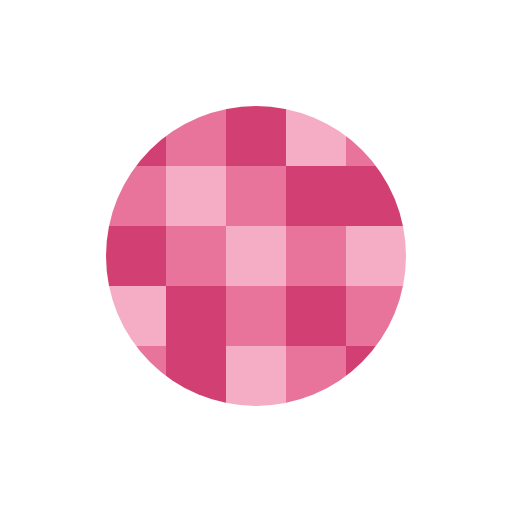
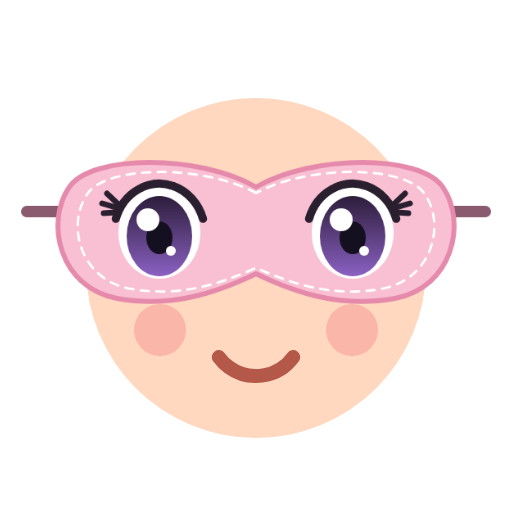
写真かくしのアイコンを、アイマスクをかけた顔に変える
Claude-Session: https://claude.ai/code/session_01VgR3gukLSnEfzCmL2sjUTv

diff --git a/kakushi/index.html b/kakushi/index.html
@@ -1,4 +1,4 @@
-<!doctype html><html lang="ja"><head><meta charset=utf8><meta name=viewport content="width=device-width,initial-scale=1,viewport-fit=cover"><style>:root{color-scheme:light;padding-top:env(safe-area-inset-top,0px);padding-bottom:env(safe-area-inset-bottom,0px)}body{margin:0}img{max-width:100%}</style><meta name="apple-mobile-web-app-title" content="写真かくし"><meta name="apple-mobile-web-app-capable" content="yes"><meta name="theme-color" content="#d23f72"><link rel="apple-touch-icon" href="apple-touch-icon.png"><link rel="icon" type="image/png" sizes="192x192" href="icon-192.png"><link rel="manifest" href="manifest.webmanifest"></head><body>
+<!doctype html><html lang="ja"><head><meta charset=utf8><meta name=viewport content="width=device-width,initial-scale=1,viewport-fit=cover"><style>:root{color-scheme:light;padding-top:env(safe-area-inset-top,0px);padding-bottom:env(safe-area-inset-bottom,0px)}body{margin:0}img{max-width:100%}</style><meta name="apple-mobile-web-app-title" content="写真かくし"><meta name="apple-mobile-web-app-capable" content="yes"><meta name="theme-color" content="#d23f72"><link rel="apple-touch-icon" href="apple-touch-icon.png?v=2"><link rel="icon" type="image/png" sizes="192x192" href="icon-192.png?v=2"><link rel="manifest" href="manifest.webmanifest?v=2"></head><body>
 <title>写真かくし</title>
 <meta name="claude:viewport-fit-sides" content="cover">
 <link rel="stylesheet" href="https://fonts.googleapis.com/css2?family=Zen+Maru+Gothic:wght@700&family=Zen+Kaku+Gothic+New:wght@400;700&display=swap">
